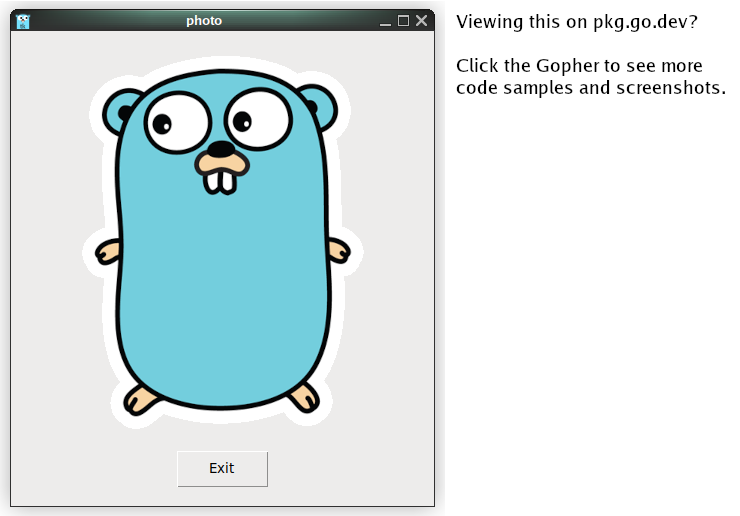
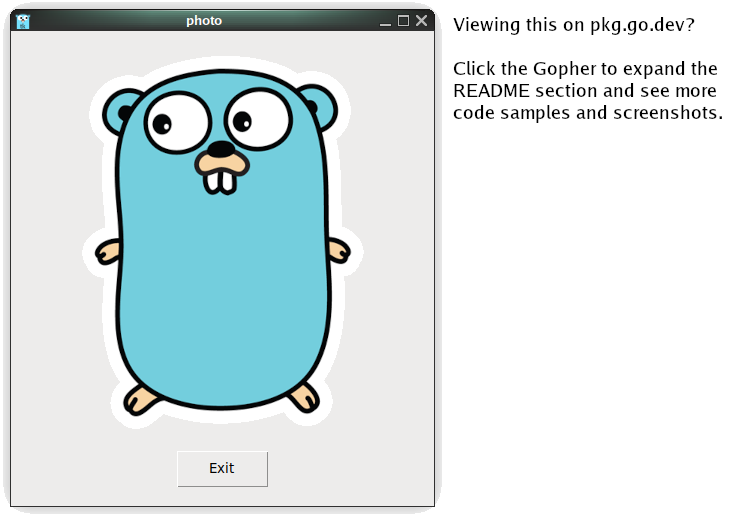
improve documentation

Changed region(s): [[0.5905, 0.093, 0.9946, 0.2481], [0.5905, 0.031, 0.9635, 0.062]]

diff --git a/doc.go b/doc.go
@@ -2,8 +2,8 @@
 // Use of this source code is governed by a BSD-style
 // license that can be found in the LICENSE file.
 
-// Package tk9.0 is a CGo-free, cross platform GUI for Go. It is similar to
-// [tkinter] for Python.
+// Package tk9.0 is a CGo-free, cross platform GUI toolkit for Go. It is
+// similar to [Tkinter] for Python.
 //
 // # Hello world
 //
@@ -267,11 +267,11 @@
 // [FreeBSD]: https://github.com/ebitengine/purego/blob/7402fed73989eaf478f4f7905862d0f04537ac8c/internal/fakecgo/freebsd.go#L15
 // [MVP]: https://en.wikipedia.org/wiki/Minimum_viable_product
 // [RERO]: https://en.wikipedia.org/wiki/Release_early,_release_often
+// [Tkinter]: https://en.wikipedia.org/wiki/Tkinter
 // [issue tracker]: https://gitlab.com/cznic/tk9.0/-/issues
 // [jnml's LiberaPay]: https://liberapay.com/jnml/donate
 // [modern-c.appspot.com]: https://modern-c.appspot.com/-/builder/?importpath=modernc.org%2ftk9.0
 // [tcl.tk site]: https://www.tcl.tk/man/tcl9.0/TkCmd/index.html
 // [tkinter.ttk site]: https://docs.python.org/3/library/tkinter.ttk.html
-// [tkinter]: https://en.wikipedia.org/wiki/Tkinter
 // [tutorialspoint]: https://www.tutorialspoint.com/tcl-tk/tk_overview.htm
 package tk9_0 // import "modernc.org/tk9.0"

diff --git a/mltoken.go b/mltoken.go
@@ -1,4 +1,4 @@
-// Code generated by [/tmp/go-build2689235652/b001/exe/generator -lexstring mlToken -pkg tk9_0 <...>], DO NOT EDIT.
+// Code generated by [/tmp/go-build2849184647/b001/exe/generator -lexstring mlToken -pkg tk9_0 <...>], DO NOT EDIT.
 
 package tk9_0
 

diff --git a/README.md b/README.md
@@ -1,4 +1,4 @@
-# tk9.0: The CGo-free, cross platform GUI for Go
+# tk9.0: The CGo-free, cross platform GUI toolkit for Go
 
 ![photo](_examples/photo.png "photo")
 
